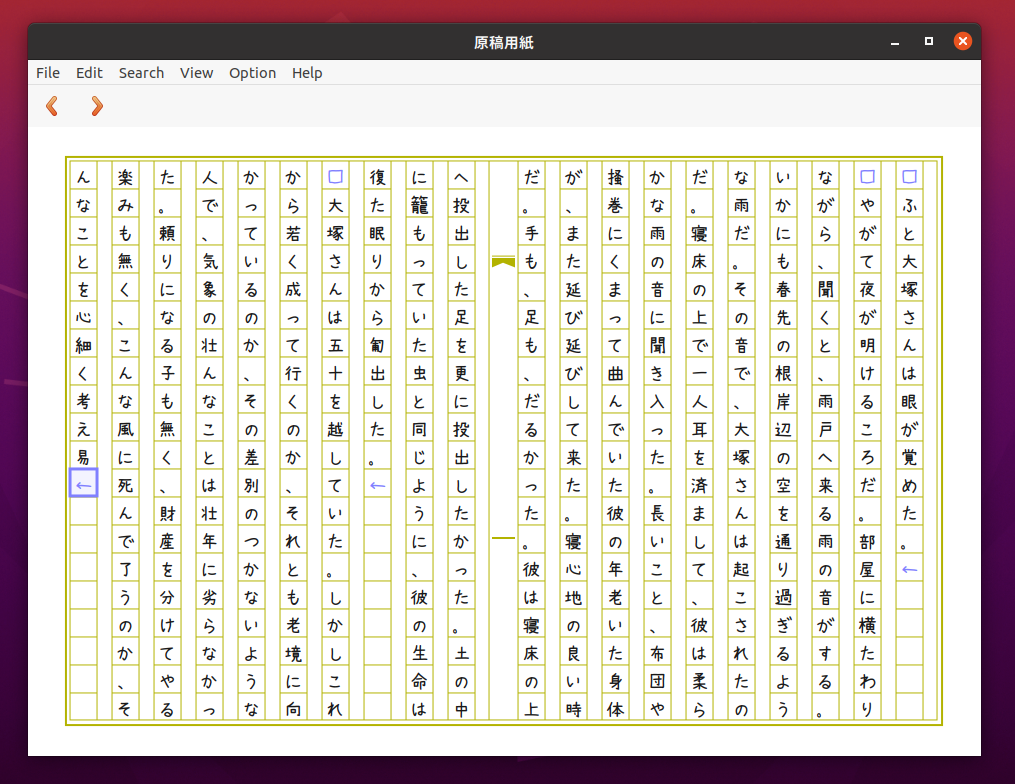
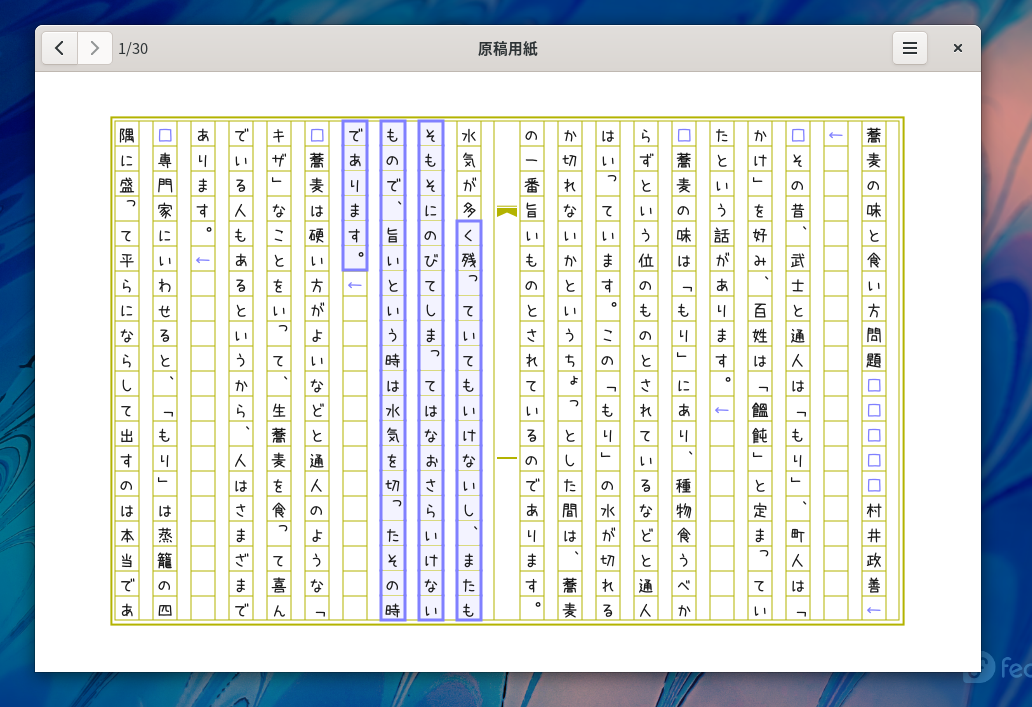
Update README

diff --git a/README.md b/README.md
@@ -5,25 +5,45 @@ genkoyoshi
 GTK+3で、原稿用紙風のテキストエディタを作っていきます。
 
 まだまだ始めたばかりなので、不足している機能や、バグなど多いです。
-
 リリースするまではまるで使い物にならないと思ってください。
 
-![画像](doc/images/screenshot-1.png)
-
-(文章は、島崎藤村の「刺繍」、フォントは「Ｎちはやフォント＋」を使用しています)
+![画像](doc/images/screenshot-1.png)  
+文：「蕎麦の味と食い方問題」村井政善・著
+([ホームページ](https://www.aozora.gr.jp/cards/000312/card2036.html))  
+フォント：「うずらフォント」([ホームページ](http://azukifont.com/font/uzura.html))
 
 コンパイル・インストール・実行方法
 ----------------------------------------------------------------------------------------------------
 `meson`コマンドを使ってビルドします。
 
-依存関係は
+依存関係はArch Linuxだと
 
 * gcc
-* gtk+-3.0
-* gee-0.8
-* vala-0.54
-* meson
+* gtk3
+* libgee
+* vala
+* meson (>=0.58)
 * ninja
+* json-glib
+
+Fedora (35)だと
+
+* gtk3-devel
+* vala
+* meson
+* libgee-devel
+* libjson-glib-devel
+
+Ubuntu (20.04)だと
+
+* libgtk-3-dev
+* vala
+* meson
+* libgee-0.8-dev
+* libjson-glib-dev
+
+※しかしUbuntuではmesonのバージョンが古い(0.53)ため、現在ビルドできません。
+他の環境でコンパイルしてインストールした方が良さそうです。
 
 コンパイル・インストール方法
 
